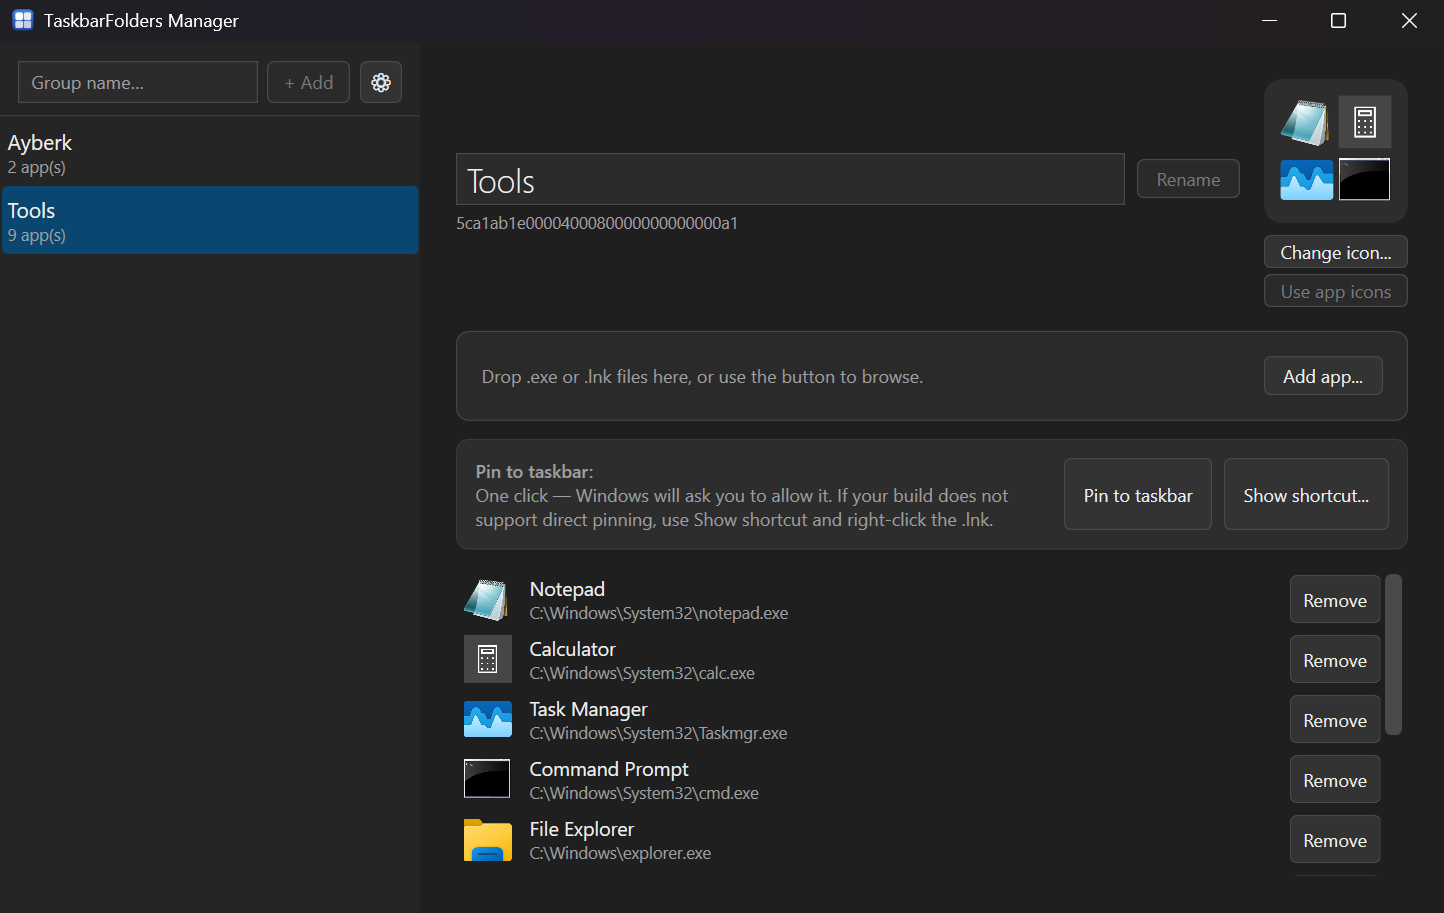
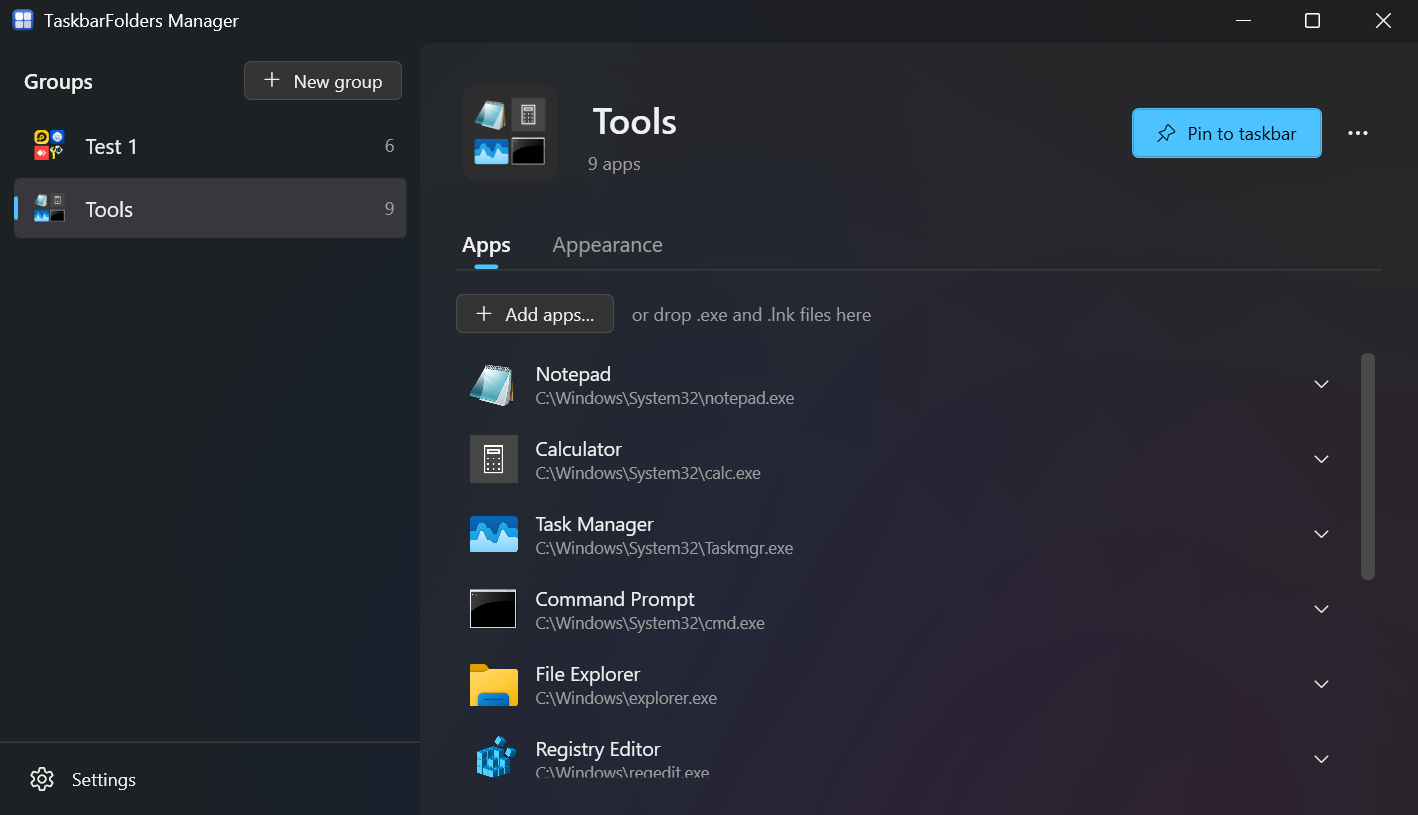
docs: retake the screenshots and bring the README's popup and settings up to date
The screenshots still showed the layout from before v0.5 - the "+ Add"
box, Remove buttons, a transparent popup. The Manager in both themes,
the popup and Settings were retaken by the recipe (150 % scaling,
PrintWindow cropped to the extended frame bounds with a 2 px inset)
from a demo group of Windows' own programs, created for them and
deleted through the Manager afterwards. The README still called the
popup fully transparent and listed four of the seven settings.

Not retaken: tbgroup.gif, a screen recording of a click on the tile.

diff --git a/plan.md b/plan.md
@@ -236,11 +236,10 @@ comes first so that C1–C4 land in their final place instead of being laid out 
   group icon choice until C1 + C2 fill it. `90c3ee4`, merged into `develop`.
 - [x] **Settings and empty state** — settings apply as they are changed (no *Save*); with no
   groups, a three-step "get started" view. `a6cb480`, merged into `develop`.
-- [ ] **Visual polish** — let the Manager's Mica backdrop show through (it is applied but
+- [x] **Visual polish** — let the Manager's Mica backdrop show through (it is applied but
   hidden under solid brushes), Fluent icons, consistent spacing; retake the screenshots.
-  Ranked #6 below. *In progress on `feature/manager-polish`: Mica shows app-wide, the popup's
-  backdrop and tint are choices, the preview shows them, spacing is on one scale, icons are
-  Fluent throughout; next the screenshots.*
+  Ranked #6 below. *Done on `feature/manager-polish`: Mica app-wide, the popup's backdrop and
+  tint as choices, a preview that shows them, one spacing scale, Fluent icons, new screenshots.*
 
 ## Up next, in order
 
@@ -255,7 +254,7 @@ below.
 | 3 | **D — release v0.5.0** — *version bumped; gates and pushes pending* | Version bump, installer and portable build, installer smoke test, CHANGELOG section, release notes; open an issue for `IsPinningAllowed = false`; delete merged branches. Puts the work so far in users' hands before the larger items. |
 | 4 | **C2 — grid settings, part 2** — *done on `feature/grid-settings-2`, not yet merged* | Live preview of the popup next to the settings, and tile spacing. The preview reuses the popup's own tile style rather than a copy. |
 | 5 | **C4 — reorder apps by dragging, in the popup's edit mode** — *done, merged into `develop`* | Changed 2026-10-30: not in the Manager's app list but on the popup's tiles. With edit mode on, a tile can be dragged to a new place (the others shift out of the way) and the tiles wiggle, as icons do on a phone. Order matters: the group icon is built from the first four apps, and today the only way to change it is to remove and re-add apps. |
-| 6 | **C6 — visual polish** | Let the Manager's Mica backdrop show, Fluent icons, spacing; retake screenshots. |
+| 6 | **C6 — visual polish** — *done* | Let the Manager's Mica backdrop show, Fluent icons, spacing; retake screenshots. |
 | 7 | **E — add apps from a list of installed apps (research first)** | Instead of browsing for an `.exe`/`.lnk`, pick from what Windows lists under *Start → All apps*, which also covers Store/packaged apps (Calculator, Settings…) that cannot be added at all today. The research settles the source (the shell's AppsFolder vs. Start menu shortcuts), how a packaged app is stored and launched (`shell:AppsFolder\<AUMID>` rather than a path), and how its icon is read. |
 
 ## Item specifications
@@ -532,8 +531,11 @@ retaken.
    and the empty state) still wrote a text "+". It is now the Fluent + glyph beside a label, and
    `ButtonNameTests` fails on a Manager button whose label starts with a typed symbol. Tried by
    the user (the empty-state button by code only: showing it needs a profile without groups).
-6. [ ] **Screenshots**, retaken with the recipe in `CLAUDE.md` (the user switches the display to
-   150 % for them).
+6. [x] **Screenshots**, retaken with the recipe in `CLAUDE.md` at 150 % (the user switched the
+   display): manager-dark, manager-light, popup, settings, from a demo group of Windows' own
+   programs created for them and deleted through the Manager afterwards. `tbgroup.gif` (a screen
+   recording) is unchanged. The README's popup description and settings table were stale and are
+   current again. **C6 is complete.**
 
 **Tests:** theme dictionary tests, and a pixel test for the Mica area.
 

diff --git a/README.md b/README.md
@@ -27,7 +27,7 @@
 - **Groups of apps behind one taskbar tile.** Drag `.exe` or `.lnk` files into a group; the group gets its own pinnable shortcut.
 - **Composite group icons.** Each group's icon is generated from the icons of the apps inside it — one centred, two side by side, three in an iOS-style arrangement, four or more as a 2×2 of the first four.
 - **One-click pinning.** The Manager asks Windows to pin the group for you. Windows shows its own confirmation dialog; if your edition or policy blocks programmatic pinning, the Manager opens the shortcut folder so you can pin it by hand.
-- **A popup with no chrome.** Clicking a pinned group opens a fully transparent popup next to the taskbar — only the icons are visible. It closes when it loses focus or after you launch something.
+- **A popup that looks like Windows.** Clicking a pinned group opens a popup next to the taskbar on Mica, the material of Windows' own apps — or Mica Alt, Acrylic or a plain panel, with an optional colour tint, per group or for all. It closes when it loses focus or after you launch something, unless you keep it open.
 - **Follows your Windows theme.** Light, dark, or system; the system option live-switches when Windows does.
 - **Multi-monitor and high-DPI aware.** The popup anchors to the monitor under the cursor and places correctly at 100–200 % display scaling.
 
@@ -100,24 +100,27 @@ graph LR
 ```
 
 <p align="center">
-  <img src="assets/screenshots/popup.png" alt="The popup: icons and labels only, no window chrome" width="286">
+  <img src="assets/screenshots/popup.png" alt="The popup: the group's name and buttons above its apps, on Mica" width="310">
 </p>
 
 Full detail in [docs/architecture.md](docs/architecture.md), and the reasoning behind the shared-launcher design in [ADR-002](docs/adr/002-per-group-lnk-aumid.md).
 
 ## Settings
 
-Open with the **⚙** button. Each setting applies and is stored as soon as you change it.
+Open with **Settings** at the bottom of the group list. Each setting applies and is stored as soon as you change it.
 
 | Setting | Options | Default |
 |---|---|---|
 | Theme | System, Light, Dark | System |
 | Popup position | Auto, Above, Below | Auto |
+| Popup backdrop | Mica, Mica Alt, Acrylic, Off | Mica |
+| Popup tint | None, Accent, Midnight, Forest, Sunset | None |
 | Enable popup animations | on / off | on |
 | Start TaskbarFolders Manager when Windows starts | on / off | off |
+| Show "Taskbar Groups" in Explorer's right-click menu | on / off | on |
 
 <p align="center">
-  <img src="assets/screenshots/settings.png" alt="Settings dialog" width="466">
+  <img src="assets/screenshots/settings.png" alt="Settings dialog" width="349">
 </p>
 
 Autostart is a per-user `HKCU\…\CurrentVersion\Run` entry — no scheduled task, no service. The registry is read as the source of truth, so removing that entry by hand is respected.

diff --git a/CHANGELOG.md b/CHANGELOG.md
@@ -20,6 +20,7 @@ and this project adheres to [Semantic Versioning](https://semver.org/spec/v2.0.0
 ### Changed
 
 - **The Manager's spacing follows one scale.** Margins and paddings had drifted to 3, 5, 6, 10 and 14 DIP; all of them now sit on 4 DIP steps, so rows, buttons and sections line up. The app list's rows and the *Pin to taskbar* button are slightly roomier, the *Appearance* rows slightly closer, and the popup's header sits 2 DIP further from its tiles.
+- **New screenshots.** The Manager in both themes, the popup and Settings were retaken at 150 % display scaling from a group of Windows' own programs; the old ones still showed the layout from before v0.5. The README described the popup as fully transparent and listed four of the seven settings; both are current again.
 - ***New group* carries the Fluent + icon.** It was the only button whose icon was a "+" typed into its label, in a different weight and size from every other icon; it now has the glyph beside the label, as *Add apps…* does, in the sidebar and on the empty start screen. Screen readers read it as "New group".
 
 ### Fixed
